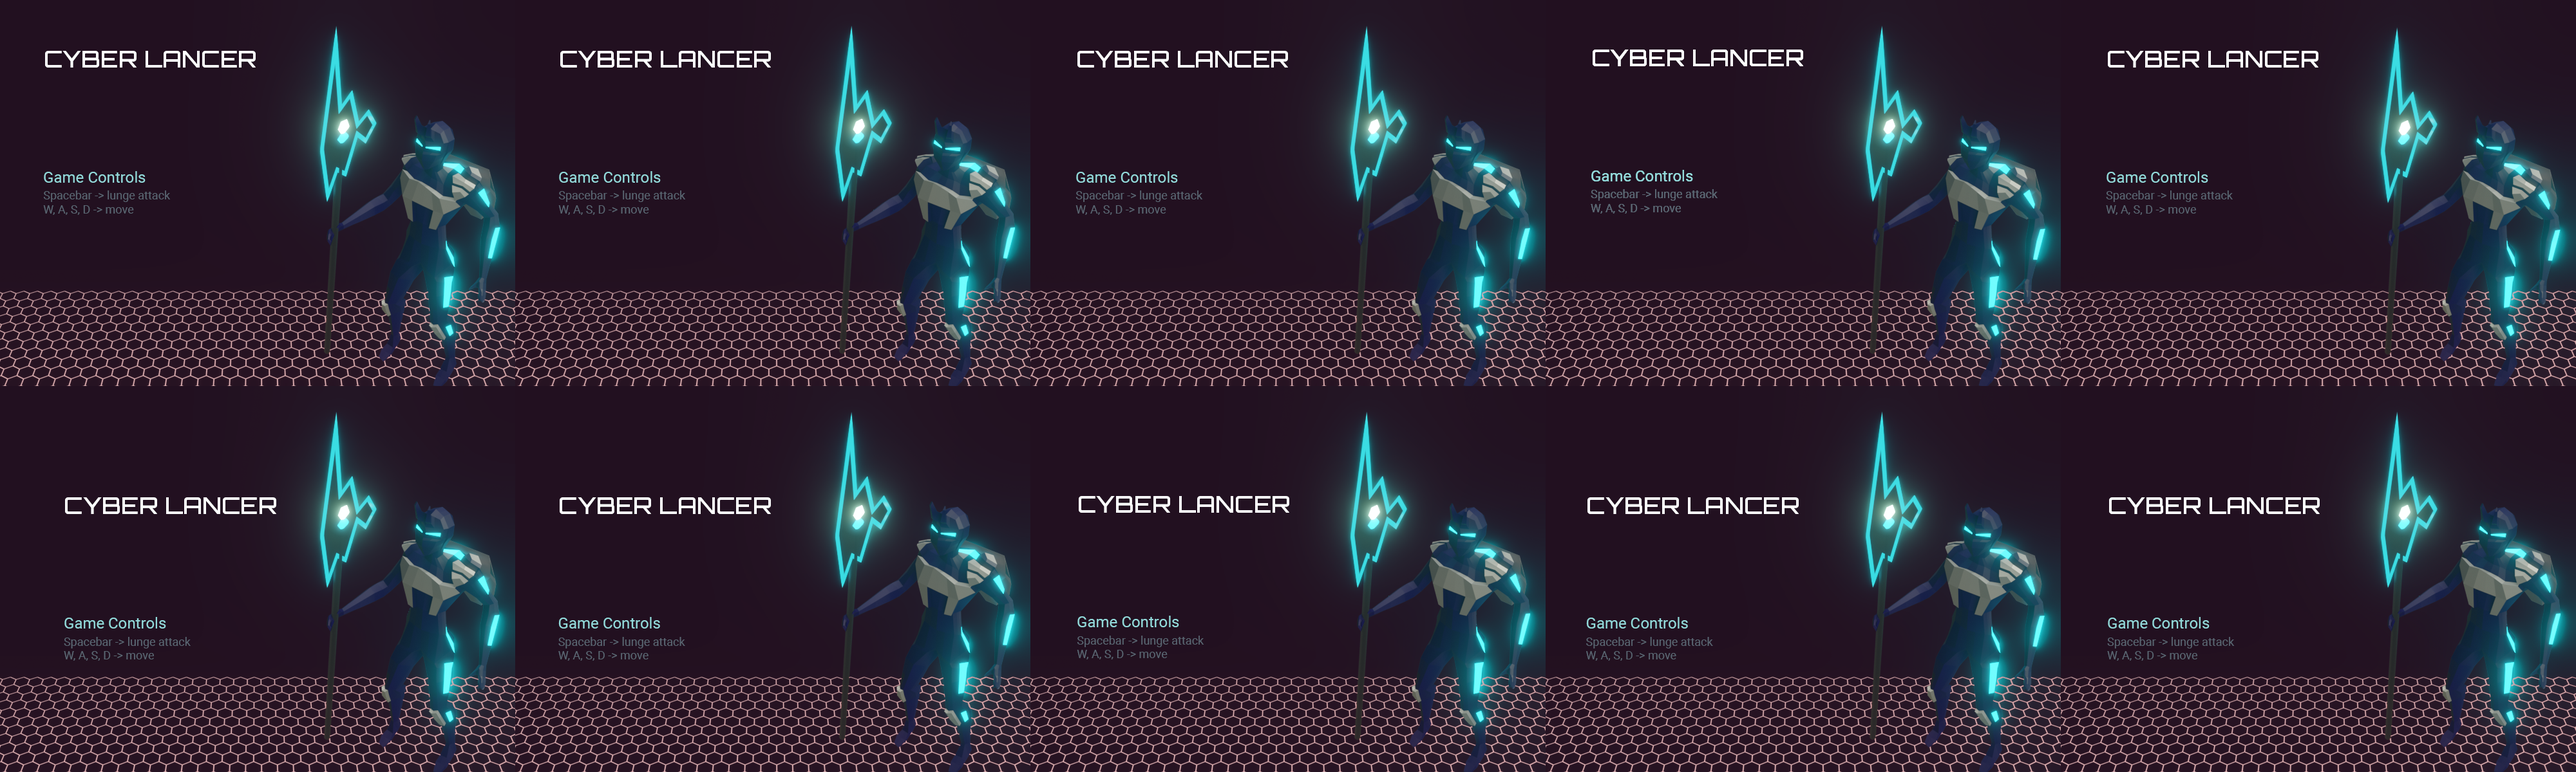
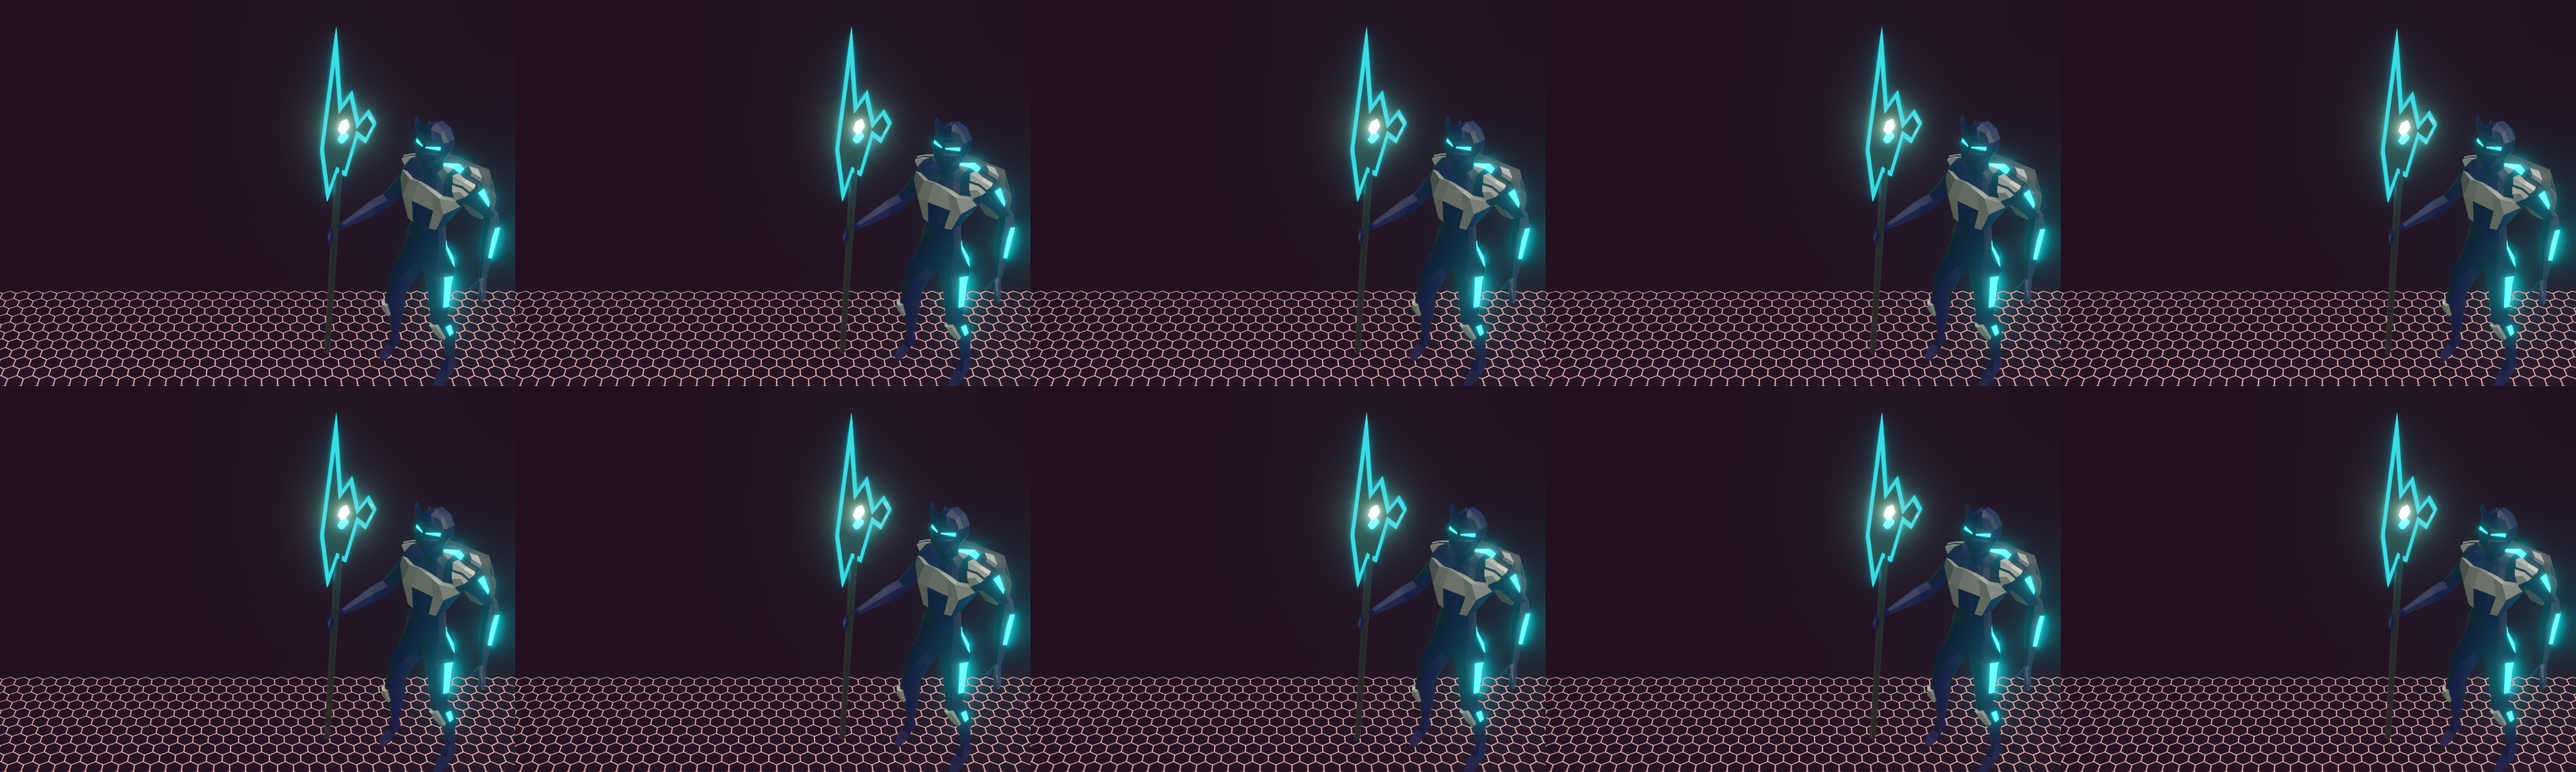
Fixed typo in title-type image.  Added infinite repeat to title spritesheet

diff --git a/src/TitleScene.js b/src/TitleScene.js
@@ -1,4 +1,5 @@
 import titleImage from './assets/titlescreen.png';
+import titleImageType from './assets/titlescreen-type.png'
 import song from "./assets/song.mp3";
 
 export default class TitleScene extends Phaser.Scene {
@@ -6,6 +7,7 @@ export default class TitleScene extends Phaser.Scene {
         super({ key: 'title' });
     }
     preload() {
+        this.load.image('title-type', titleImageType)
         this.load.spritesheet('title', titleImage, { frameWidth: 800, frameHeight: 600 });
         this.load.audio('song', song);
     }
@@ -13,11 +15,13 @@ export default class TitleScene extends Phaser.Scene {
         this.sound.play('song', { volume: 0.5, loop: true });
         const splash = this.add.sprite(0, 0, 'title', 0);
         splash.setOrigin(0,0);
+        this.add.image(400, 300, 'title-type')
+
         this.anims.create({
             key: 'titlescreen',
             frames: this.anims.generateFrameNumbers('title', { frames: [0, 1, 2, 3, 4, 5, 6, 7] }),
             frameRate: 3,
-            repeat: 1
+            repeat: -1
         })
         splash.play('titlescreen')
         this.input.keyboard.on('keydown', () => {
